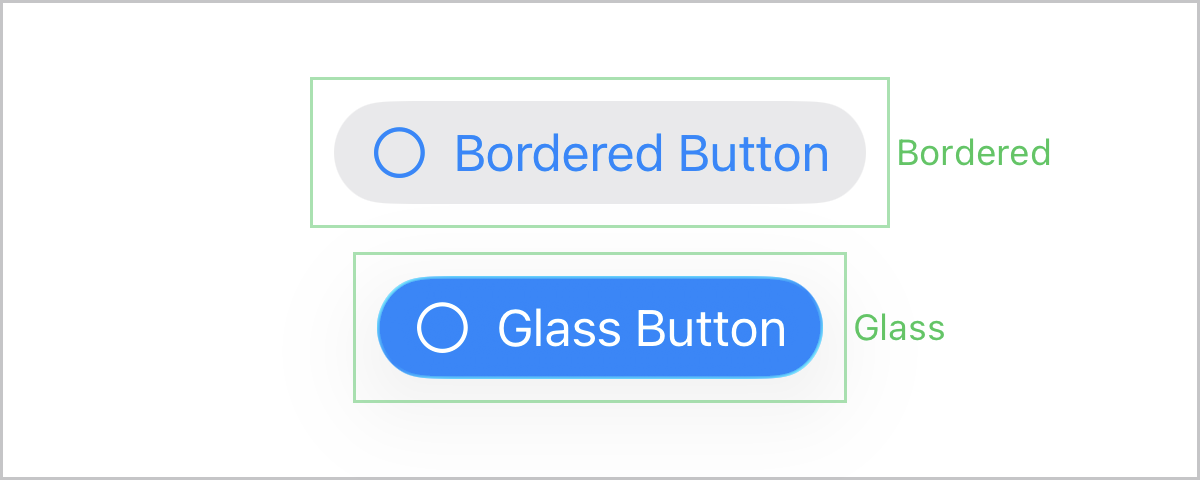
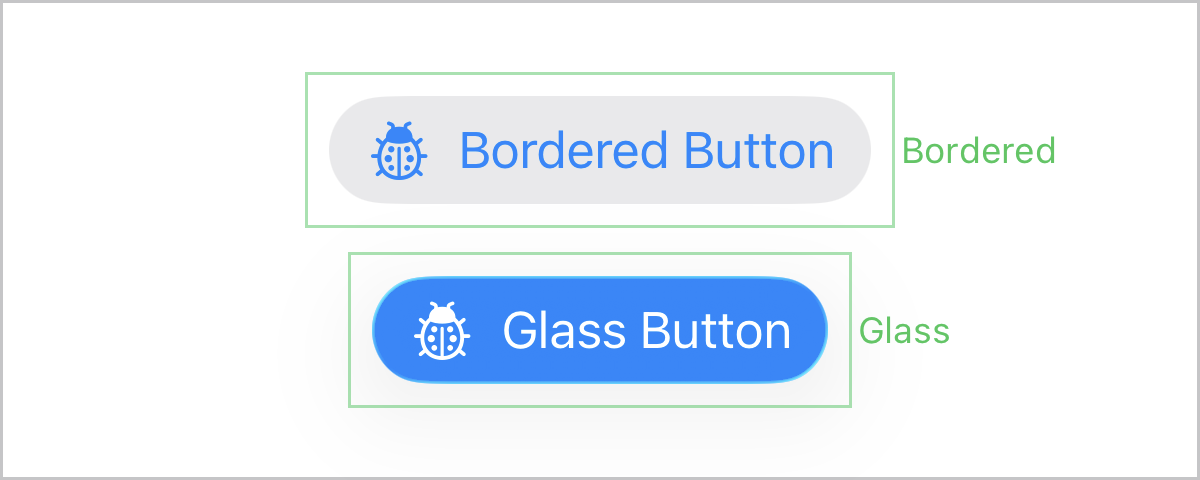
update illustration generated through app

Changed region(s): [[0.2775, 0.5312, 0.8017, 0.875], [0.2467, 0.125, 0.8942, 0.4688], [0.3083, 0.25, 0.7092, 0.375]]

diff --git a/illustrations-app/illustrations/IllustrationsForSnippetIllustrations.swift b/illustrations-app/illustrations/IllustrationsForSnippetIllustrations.swift
@@ -24,15 +24,18 @@ struct IllustrationsForSnippetIllustrations {
     }
 
     @Test func glassWithWindowHierarchy() throws {
-        try storage.renderAndStore("snippet-illustrations", "glass-with-window-hierarchy", backend: .windowHierarchy) {
+        try storage.renderAndStore(
+            "snippet-illustrations", "glass-with-window-hierarchy",
+            strategy: .windowHierarchy
+        ) {
             DocumentationIllustration(sizing: .regular) {
                 VStack {
-                    Button("Bordered Button", systemImage: "circle", action: {})
+                    Button("Bordered Button", systemImage: "ladybug", action: {})
                     .buttonStyle(.bordered)
                     .padding(8)
                     .floatingCaption("Bordered", .colorStyle(.green), .alignment(.outerTrailing))
 
-                    Button("Glass Button", systemImage: "circle", action: {})
+                    Button("Glass Button", systemImage: "ladybug", action: {})
                     .buttonStyle(.glassProminent)
                     .padding(8)
                     .floatingCaption("Glass", .colorStyle(.green), .alignment(.outerTrailing))
